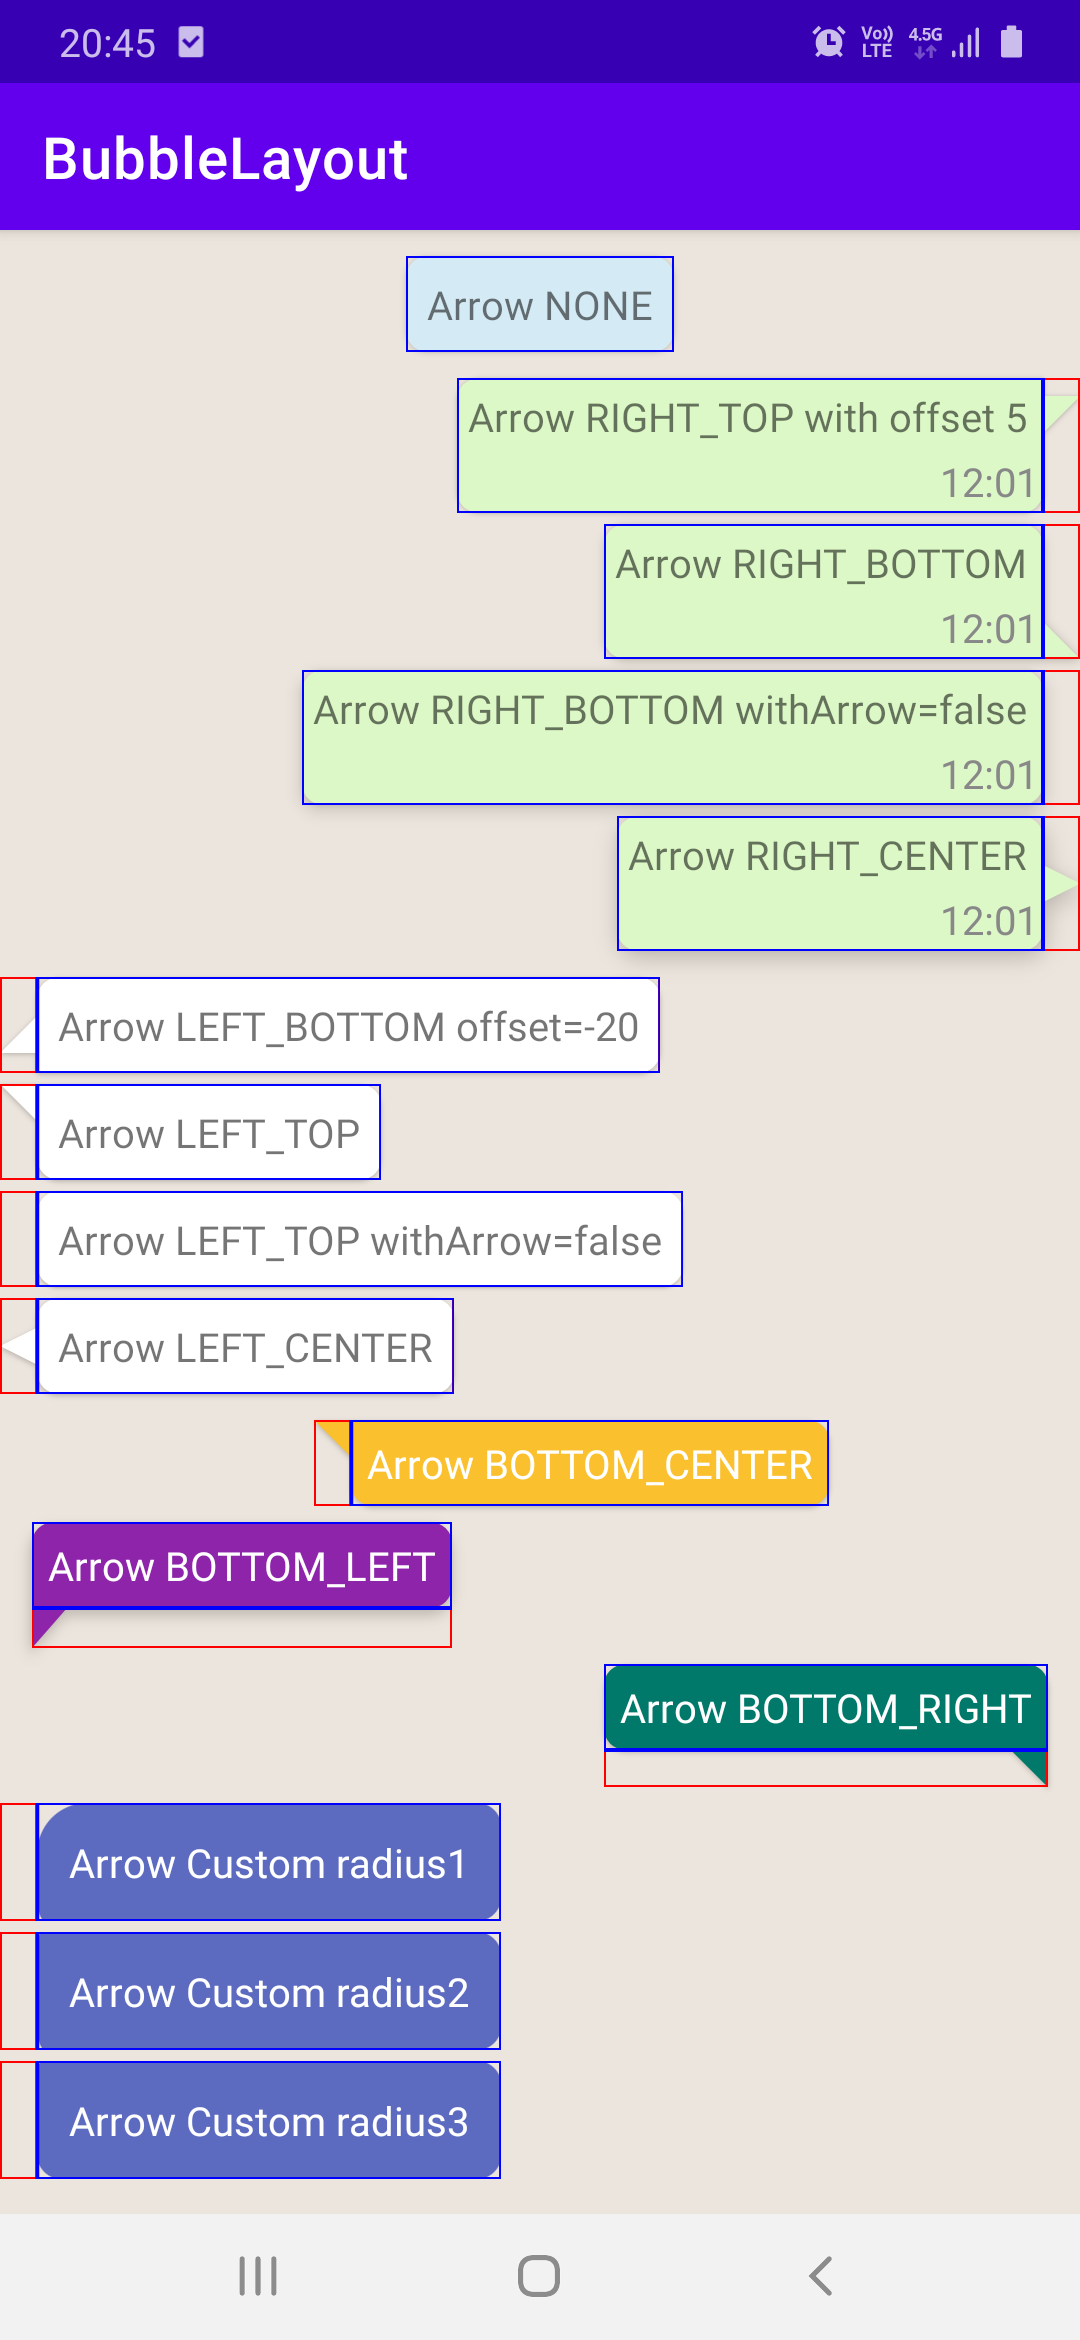
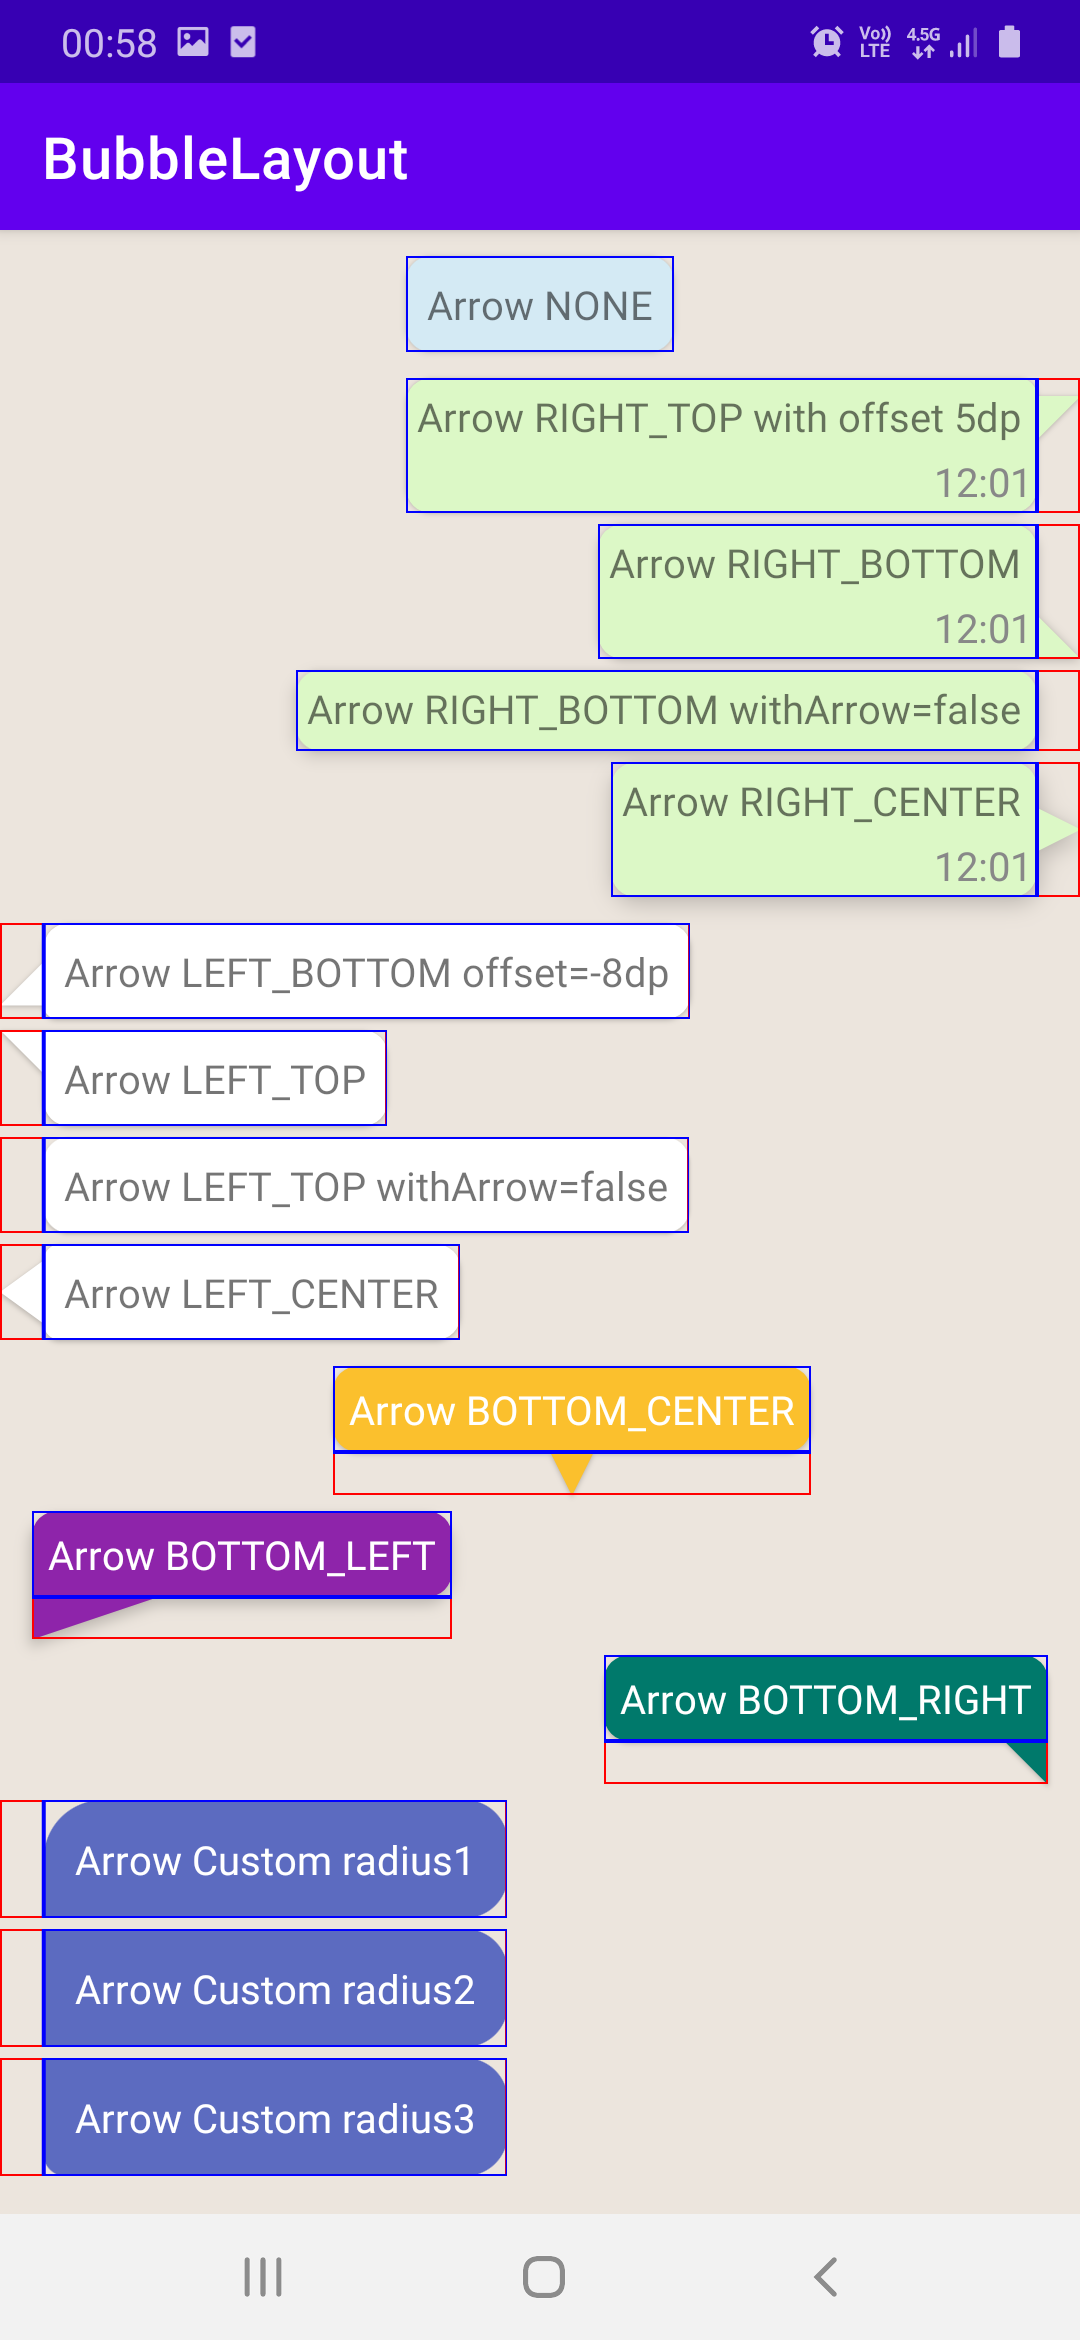
Max corner radius depends on arrow height
Arrow height can be as big as height of the bubble and corner radius is now uses the free space after arrow height is calculated

diff --git a/app/src/main/java/com/smarttoolfactory/bubblelayout/BubbleLayout.kt b/app/src/main/java/com/smarttoolfactory/bubblelayout/BubbleLayout.kt
@@ -357,6 +357,11 @@ class BubbleLayout : FrameLayout {
 
         canvas.drawPath(path, paint)
 
+        paintDebug.color = Color.RED
+        canvas.drawRect(rectBubble, paintDebug)
+        paintDebug.color = Color.BLUE
+        canvas.drawRect(rectContent, paintDebug)
+
         if (modifier.shadowStyle == ShadowStyle.ELEVATION) {
             outlineProvider = outlineProvider
         }
@@ -401,7 +406,6 @@ fun getBubbleClipPath(
 
     path.reset()
 
-    getRoundedRectPath(modifier, path, contentRect)
 
     if (modifier.withArrow) {
         if (isArrowHorizontalPosition(modifier.arrowAlignment)) {
@@ -418,6 +422,8 @@ fun getBubbleClipPath(
             )
         }
     }
+
+    getRoundedRectPath(modifier, path, contentRect)
 }
 
 private fun getRoundedRectPath(
@@ -439,28 +445,46 @@ private fun getRoundedRectPath(
         bottomLeft = min(bottomLeft, maxRadius)
     }
 
-    when (alignment) {
-        LEFT_TOP -> {
-            cornerRadius.topLeft =
-                if (modifier.withArrow && modifier.arrowOffsetY < maxRadius) 0f
-                else cornerRadius.topLeft
+    val isWithArrow = modifier.withArrow
+
+
+    if (isWithArrow) {
+        when (alignment) {
+            // Arrow on left side of the bubble
+            LEFT_TOP, LEFT_CENTER, LEFT_BOTTOM -> {
+                cornerRadius.topLeft = min(
+                    modifier.arrowTop,
+                    cornerRadius.topLeft
+                )
+
+                cornerRadius.bottomLeft =
+                    min(cornerRadius.bottomLeft, (contentRect.height() - modifier.arrowBottom))
+            }
+
+            // Arrow on right side of the bubble
+            RIGHT_TOP, RIGHT_CENTER, RIGHT_BOTTOM -> {
+                cornerRadius.topRight = min(
+                    modifier.arrowTop,
+                    cornerRadius.topRight
+                )
+
+                cornerRadius.bottomRight =
+                    min(cornerRadius.bottomRight, (contentRect.height() - modifier.arrowBottom))
+            }
+
+            // Arrow at the bottom of bubble
+            BOTTOM_LEFT -> {
+                cornerRadius.bottomLeft =
+                    if (modifier.arrowOffsetY < maxRadius) 0f
+                    else cornerRadius.bottomLeft
+            }
+            BOTTOM_RIGHT -> {
+                cornerRadius.bottomRight =
+                    if (modifier.arrowOffsetY < maxRadius) 0f
+                    else cornerRadius.bottomRight
+            }
+            else -> Unit
         }
-        RIGHT_TOP -> {
-            cornerRadius.topRight =
-                if (modifier.withArrow && modifier.arrowOffsetY < maxRadius) 0f
-                else cornerRadius.topRight
-        }
-        LEFT_BOTTOM, BOTTOM_LEFT -> {
-            cornerRadius.bottomLeft =
-                if (modifier.withArrow && modifier.arrowOffsetY < maxRadius) 0f
-                else cornerRadius.bottomLeft
-        }
-        RIGHT_BOTTOM, BOTTOM_RIGHT -> {
-            cornerRadius.bottomRight =
-                if (modifier.withArrow && modifier.arrowOffsetY < maxRadius) 0f
-                else cornerRadius.bottomRight
-        }
-        else -> Unit
     }
 
     val radii = floatArrayOf(

diff --git a/app/src/main/java/com/smarttoolfactory/bubblelayout/ArrowPath.kt b/app/src/main/java/com/smarttoolfactory/bubblelayout/ArrowPath.kt
@@ -33,17 +33,21 @@ fun createHorizontalArrowPath(
     }
 
     // Height of the arrow is limited to height of the bubble
-    val arrowHeight =
-        if (modifier.arrowHeight + radiusSumOnArrowSide > contentHeight)
-            contentHeight - radiusSumOnArrowSide else modifier.arrowHeight
+//    val arrowHeight =
+//        if (modifier.arrowHeight + radiusSumOnArrowSide > contentHeight)
+//            contentHeight - radiusSumOnArrowSide else modifier.arrowHeight
 
+    val arrowHeight = modifier.arrowHeight.coerceAtMost(contentHeight)
+    modifier.arrowHeight = arrowHeight
 
     // This is offset from top/bottom or center for arrows on left or right.
     // Maximum offset + arrow height cannot be bigger
     // than bottom of bubble or smaller than top of bubble.
     val arrowTop = calculateArrowTopPosition(modifier, arrowHeight, contentTop, contentHeight)
+    modifier.arrowTop = arrowTop
 
     val arrowBottom = arrowTop + arrowHeight
+    modifier.arrowBottom = arrowBottom
 
     val arrowShape = modifier.arrowShape
 

diff --git a/app/src/main/java/com/smarttoolfactory/bubblelayout/MainActivity.kt b/app/src/main/java/com/smarttoolfactory/bubblelayout/MainActivity.kt
@@ -95,9 +95,9 @@ class MainActivity : AppCompatActivity() {
         val receiverBubble4 = findViewById<BubbleLayout>(R.id.bubbleViewReceiver4)
 
         val modifierR4 = receiverBubble4.modifier.apply {
-            arrowHeight = 30f.dp
-            cornerRadiusBundle.topLeft = dp(4f)
-            cornerRadiusBundle.bottomLeft = dp(4f)
+            arrowHeight = 24f.dp
+//            cornerRadiusBundle.topLeft = 0f
+//            cornerRadiusBundle.bottomLeft = 0f
             backgroundColor = Color.WHITE
             arrowAlignment = LEFT_CENTER
             arrowShape = ArrowShape.TRIANGLE_ISOSCELES
